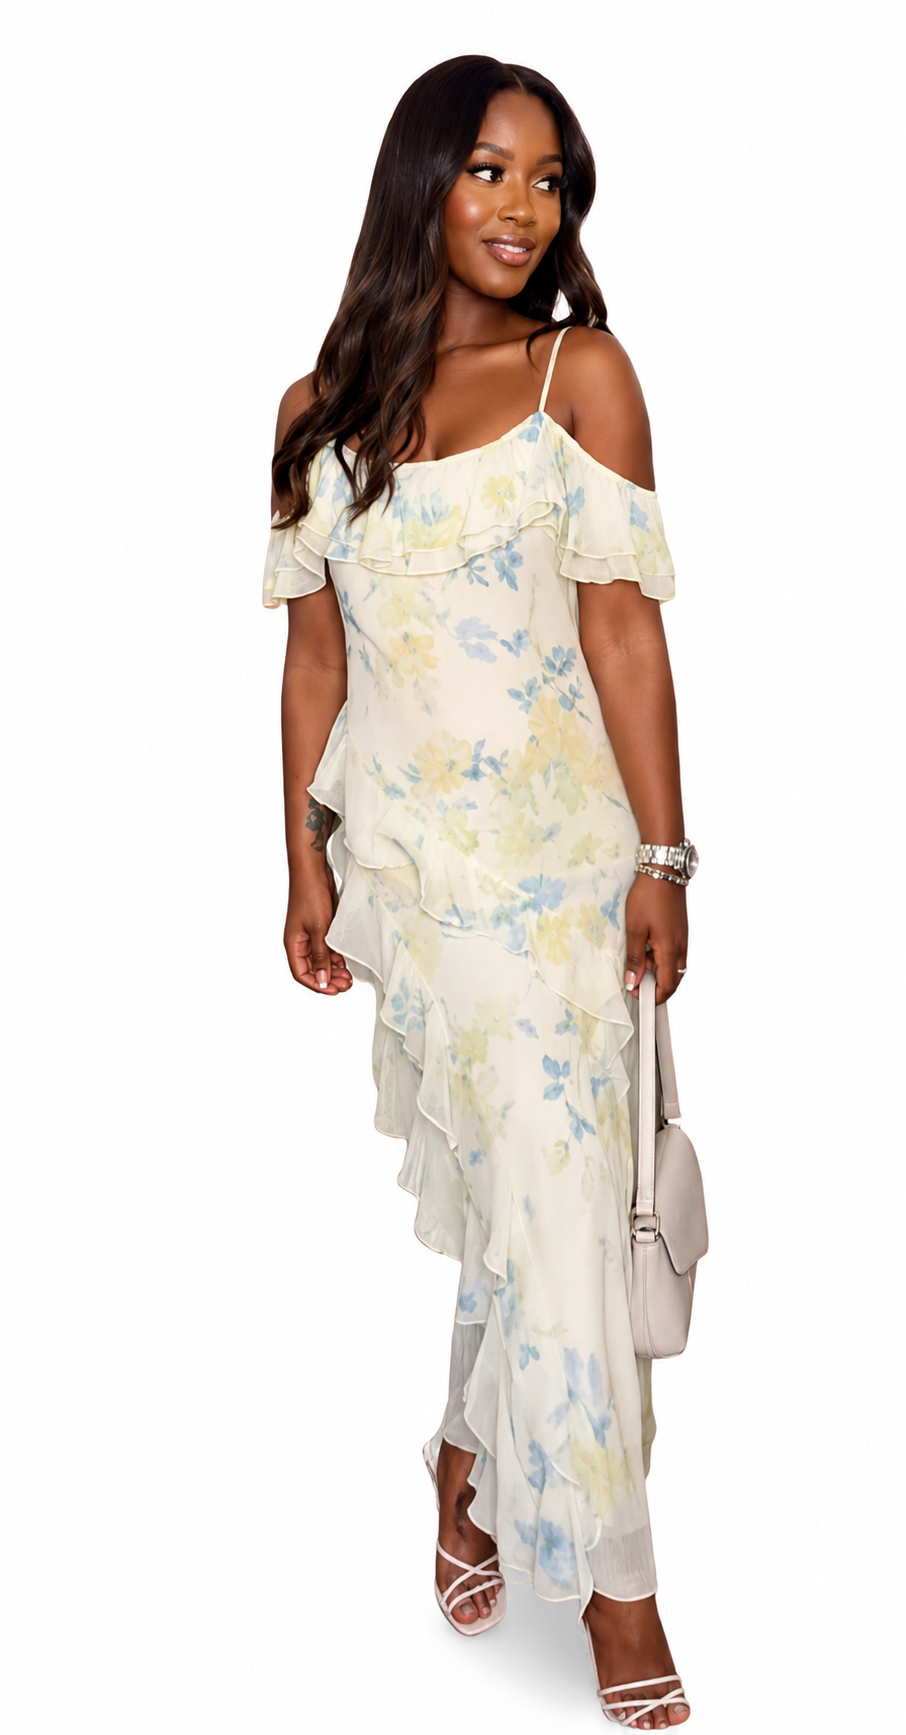
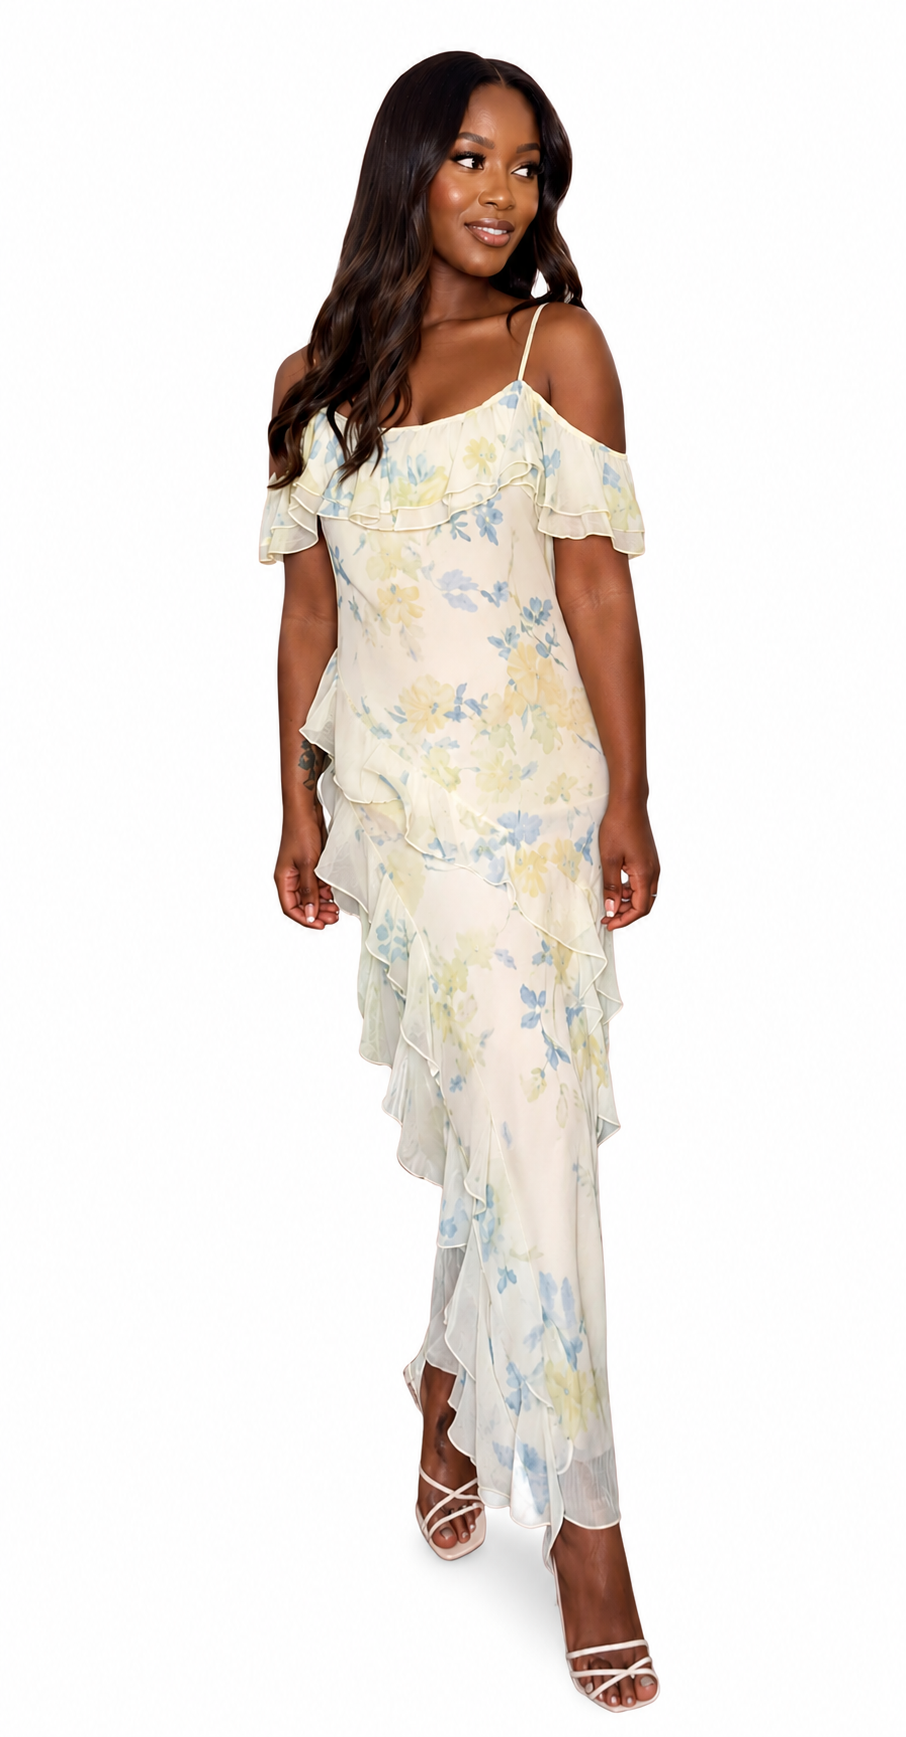
fix: show full product image without cropping on detail page

Changed region(s): [[0.2781, 0.0311, 0.8035, 1.0]]

diff --git a/src/app/product/[id]/product-detail.tsx b/src/app/product/[id]/product-detail.tsx
@@ -51,13 +51,13 @@ export function ProductDetail({ product }: ProductDetailProps) {
       <div className="grid md:grid-cols-2 gap-8 lg:gap-16">
         {/* Product Image */}
         <div className="space-y-4">
-          <div className="aspect-[3/4] bg-gradient-to-br from-muted/50 to-muted rounded-2xl overflow-hidden flex items-center justify-center relative">
+          <div className="aspect-[3/4] bg-white rounded-2xl overflow-hidden flex items-center justify-center relative">
             {product.images[0] ? (
               <Image
                 src={product.images[0]}
                 alt={product.name}
                 fill
-                className="object-cover"
+                className="object-contain"
                 sizes="(max-width: 768px) 100vw, 50vw"
                 unoptimized={!product.images[0].startsWith("http")}
               />